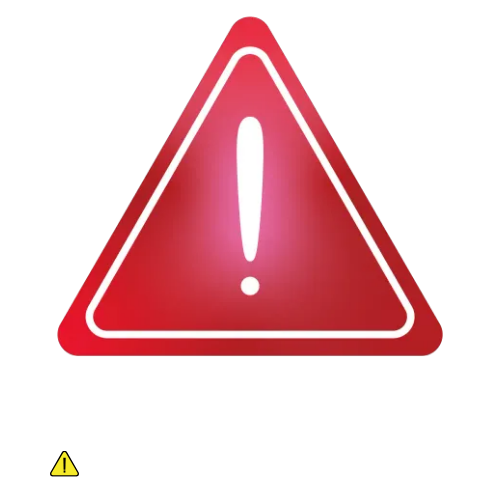
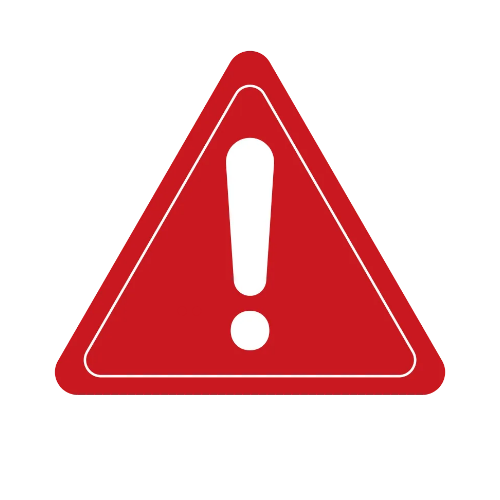
Reduce caution image size

Changed region(s): [[0.09, 0.03, 0.9, 0.81], [0.09, 0.9, 0.18, 0.96]]

diff --git a/static/css/style.css b/static/css/style.css
@@ -727,7 +727,7 @@ body {
 }
 
 .caution-image {
-    width: 100px;
+    width: 70px;
     height: auto;
     display: block;
     margin: 20px auto 30px auto;
@@ -820,7 +820,7 @@ body {
 /* 반응형 - 과태료 섹션 */
 @media (max-width: 1024px) {
     .caution-image {
-        width: 90px;
+        width: 65px;
         margin: 15px auto 25px auto;
     }
     
@@ -852,7 +852,7 @@ body {
     }
     
     .caution-image {
-        width: 80px;
+        width: 60px;
         margin: 15px auto 20px auto;
     }
     
@@ -890,7 +890,7 @@ body {
     }
     
     .caution-image {
-        width: 60px;
+        width: 50px;
         margin: 10px auto 15px auto;
     }
     

diff --git a/templates/index.html b/templates/index.html
@@ -66,7 +66,7 @@
     <section class="penalty-section">
         <div class="container">
             <div class="alert-icon">
-                <img src="{{ url_for('static', filename='image/중요.png') }}" alt="경고" class="caution-image">
+                <img src="{{ url_for('static', filename='image/중요.png') }}" alt="경고" class="caution.png">
             </div>
             
             <div class="speech-bubble">
